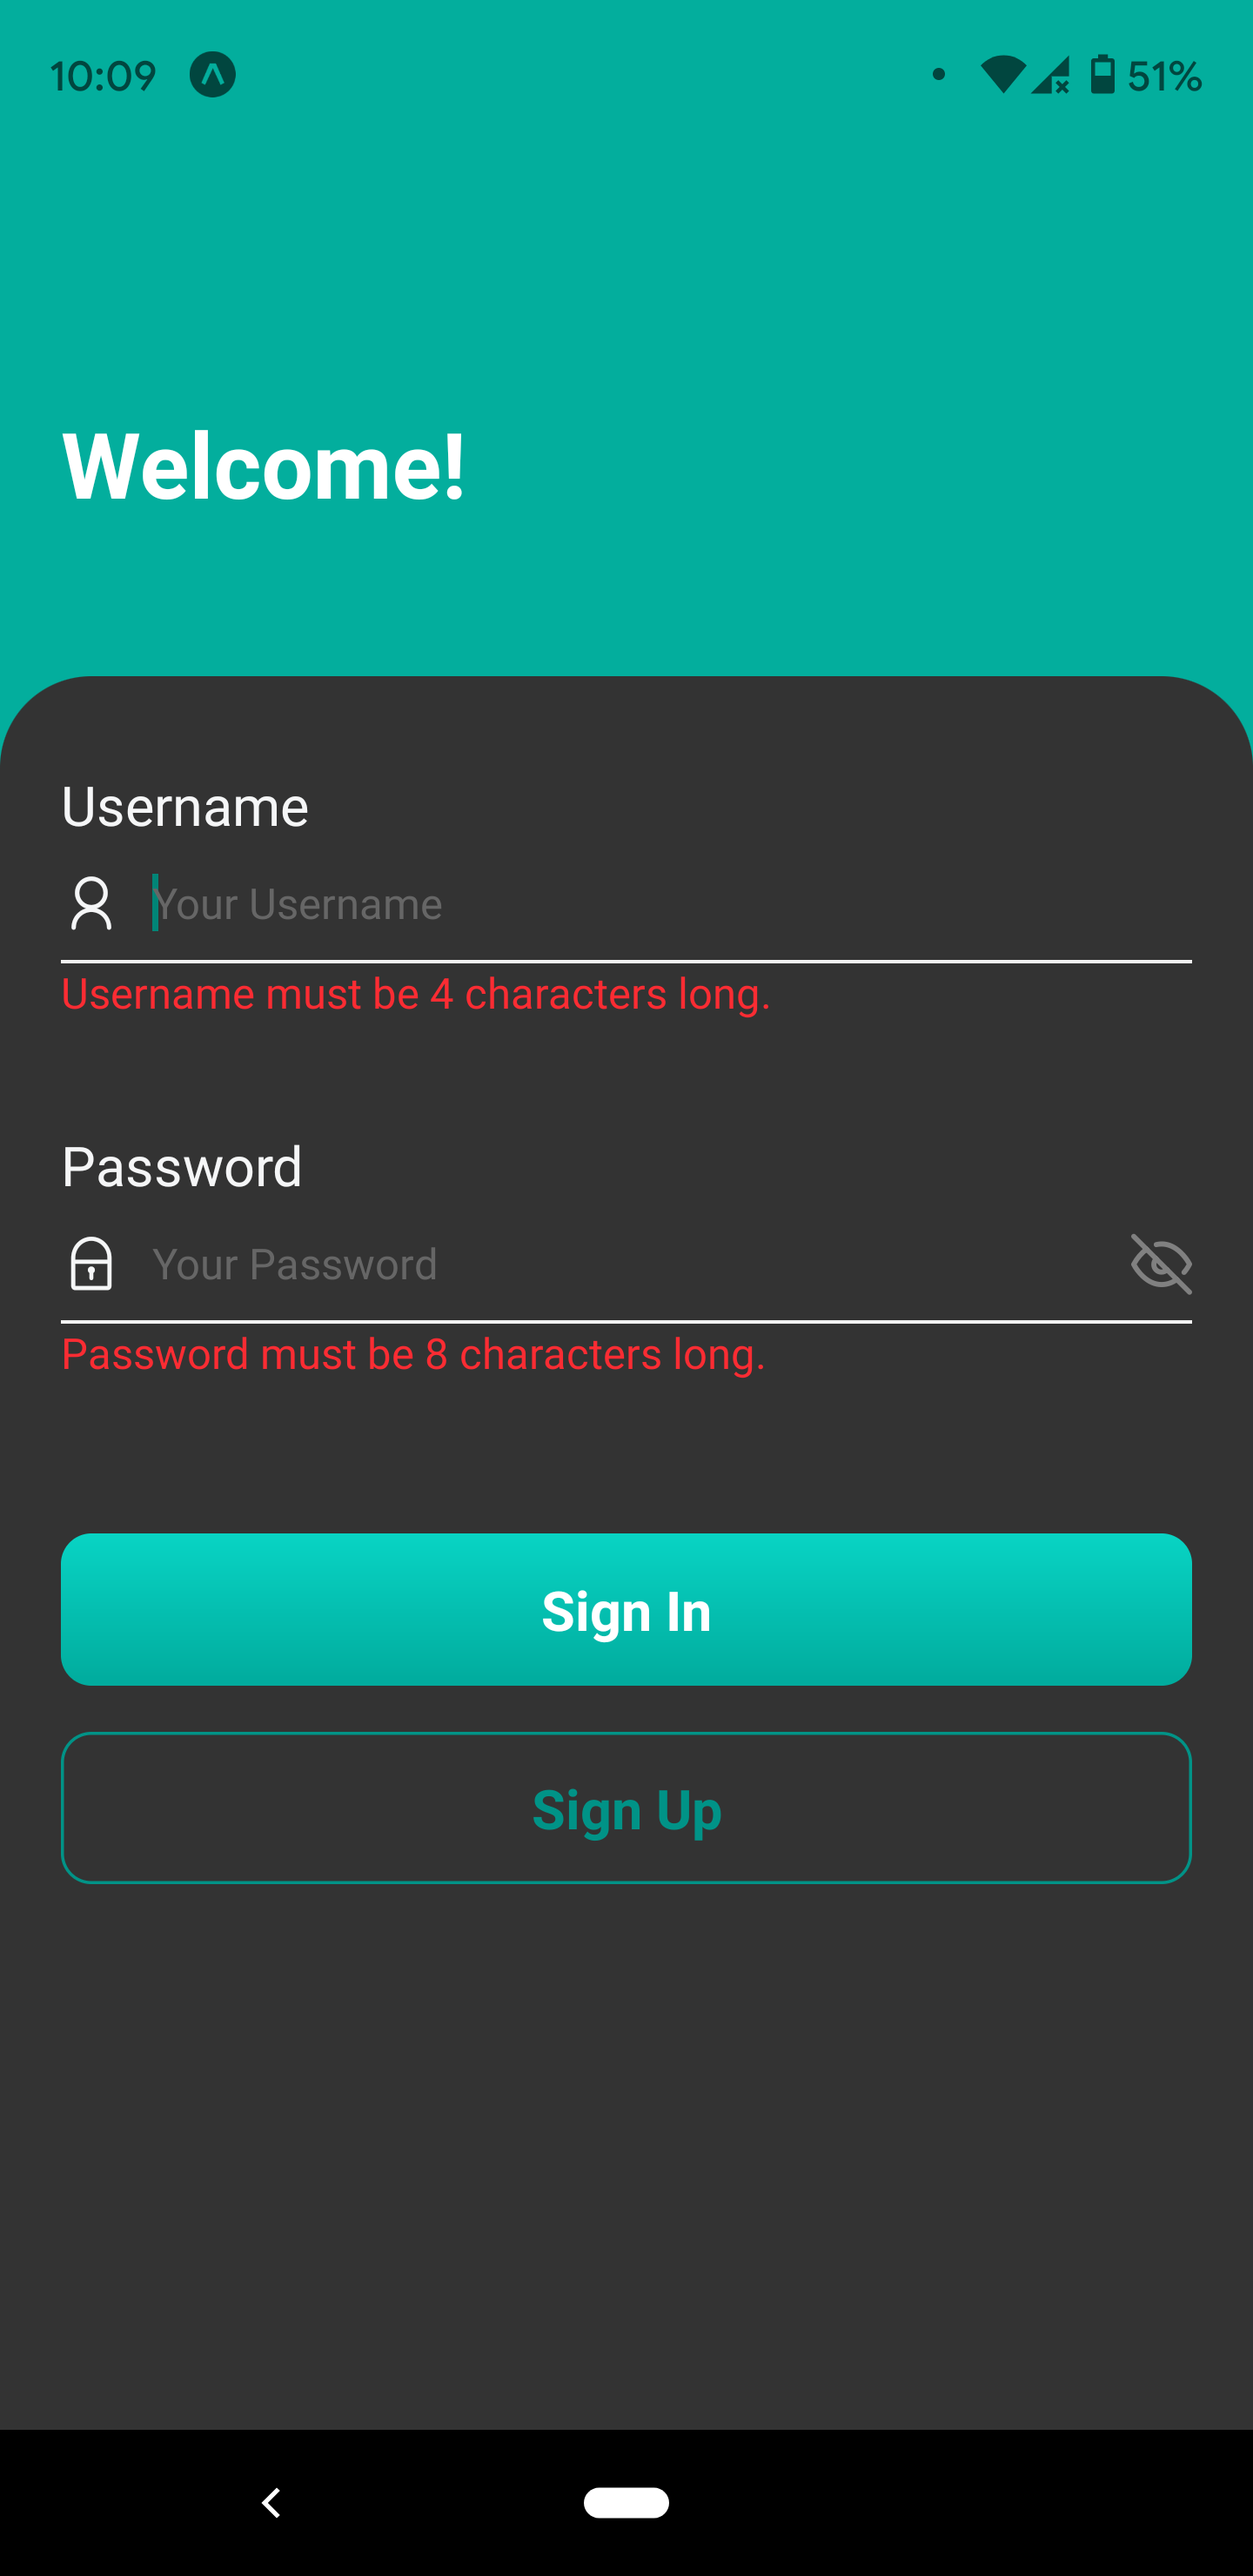
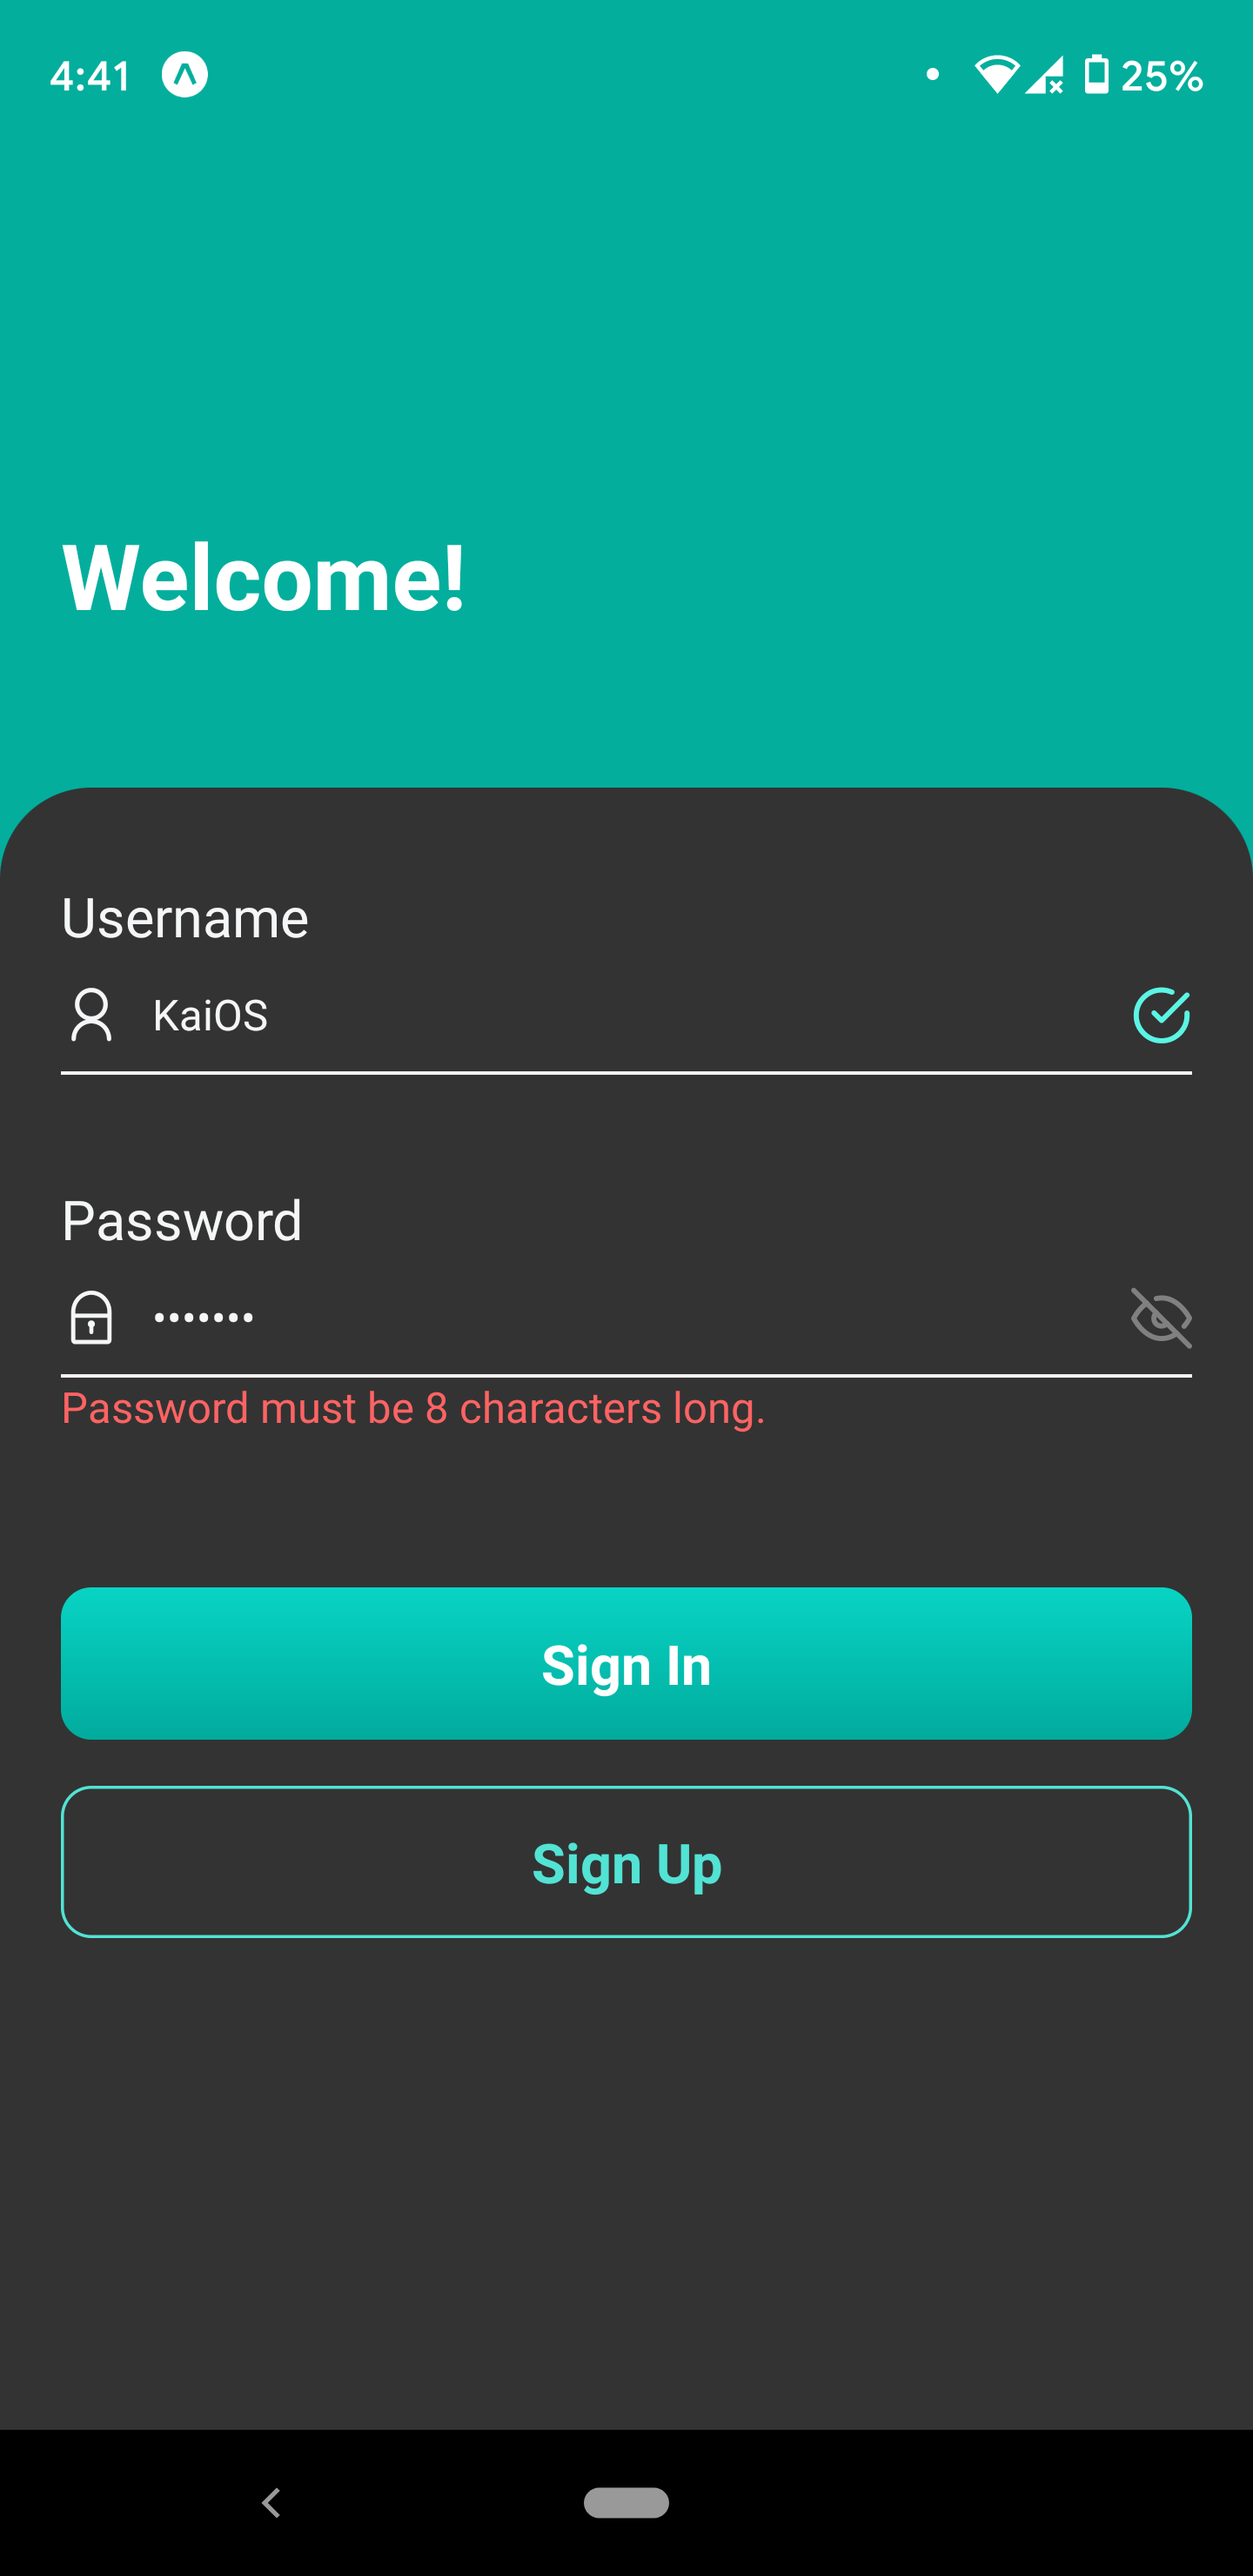
:sparkles: Support theming to Status Bar

diff --git a/app/navigation/SignInScreen.js b/app/navigation/SignInScreen.js
@@ -160,14 +160,14 @@ const SignInScreen = ({ navigation }) => {
 
           {data.check_textInputChange ? (
             <Animatable.View animation='bounceIn'>
-              <Feather name='check-circle' color='green' size={20} />
+              <Feather name='check-circle' color={colors.accent} size={20} />
             </Animatable.View>
           ) : null}
         </View>
 
         {data.isValidUser ? null : (
           <Animatable.View animation='fadeInLeft' duration={500}>
-            <Text style={styles.errorMsg}>
+            <Text style={[styles.errorMsg, { color: colors.danger }]}>
               Username must be 4 characters long.
             </Text>
           </Animatable.View>
@@ -212,7 +212,7 @@ const SignInScreen = ({ navigation }) => {
 
         {data.isValidPassword ? null : (
           <Animatable.View animation='fadeInLeft' duration={500}>
-            <Text style={styles.errorMsg}>
+            <Text style={[styles.errorMsg, { color: colors.danger }]}>
               Password must be 8 characters long.
             </Text>
           </Animatable.View>
@@ -247,7 +247,7 @@ const SignInScreen = ({ navigation }) => {
             style={[
               styles.signIn,
               {
-                borderColor: '#009387',
+                borderColor: colors.success,
                 borderWidth: 1,
                 marginTop: 15,
               },
@@ -257,7 +257,7 @@ const SignInScreen = ({ navigation }) => {
               style={[
                 styles.textSign,
                 {
-                  color: '#009387',
+                  color: colors.success,
                 },
               ]}
             >
@@ -314,7 +314,7 @@ const styles = StyleSheet.create({
     color: '#05375a',
   },
   errorMsg: {
-    color: '#fb2c33',
+    // color: '#fb2c33',
     fontSize: 14,
   },
   button: {

diff --git a/app/navigation/SignUpScreen.js b/app/navigation/SignUpScreen.js
@@ -114,7 +114,7 @@ const SignUpScreen = ({ navigation }) => {
 
           {data.check_textInputChange ? (
             <Animatable.View animation='bounceIn'>
-              <Feather name='check-circle' color='green' size={20} />
+              <Feather name='check-circle' color={colors.accent} size={20} />
             </Animatable.View>
           ) : null}
         </View>
@@ -213,7 +213,7 @@ const SignUpScreen = ({ navigation }) => {
             style={[
               styles.signIn,
               {
-                borderColor: '#009387',
+                borderColor: colors.success,
                 borderWidth: 1,
                 marginTop: 15,
               },
@@ -223,7 +223,7 @@ const SignUpScreen = ({ navigation }) => {
               style={[
                 styles.textSign,
                 {
-                  color: '#009387',
+                  color: colors.success,
                 },
               ]}
             >

diff --git a/app/components/CryptoDetail.js b/app/components/CryptoDetail.js
@@ -3,8 +3,10 @@ import PropTypes from 'prop-types';
 import { View, Text, StyleSheet } from 'react-native';
 import { ButtonGroup } from 'react-native-elements';
 import Area from './Area';
+import { useTheme } from '@react-navigation/native';
 
 const CryptoDetail = ({ route }) => {
+  const { colors } = useTheme();
   const [selected, setSelected] = useState(2);
   const buttons = ['1 Day', '1 Week', '1 Month'];
   const { itemId } = route.params;
@@ -23,7 +25,7 @@ const CryptoDetail = ({ route }) => {
   };
 
   return (
-    <View style={styles.container}>
+    <View style={[styles.container, { backgroundColor: colors.surface }]}>
       <Text style={styles.text}>
         {`Price Chart for ${period(selected)}`} (&euro;)
       </Text>
@@ -51,7 +53,6 @@ const styles = StyleSheet.create({
     flex: 1,
     alignItems: 'center',
     justifyContent: 'center',
-    backgroundColor: '#efefef',
   },
   text: {
     fontSize: 20,

diff --git a/app/components/Home.js b/app/components/Home.js
@@ -9,8 +9,10 @@ import {
 import CoinList from './CoinList';
 import ModalPicker from './ModalPicker';
 import FloatingButton from './FloatingButton';
+import { useTheme } from '@react-navigation/native';
 
 const Home = ({ navigation }) => {
+  const theme = useTheme();
   const [sortTarget, setSortTarget] = useState('market_cap_desc');
   const [modalVisible, setModalVisible] = useState(false);
   const changeModalVisibility = useCallback(
@@ -24,6 +26,10 @@ const Home = ({ navigation }) => {
 
   return (
     <SafeAreaView style={styles.container}>
+      <StatusBar
+        backgroundColor='#03AE9D'
+        barStyle={theme.dark ? 'light-content' : 'dark-content'}
+      />
       <Image
         style={styles.itemBGImage}
         source={require('../../assets/wallpaper.jpeg')}

diff --git a/app/navigation/SplashScreen.js b/app/navigation/SplashScreen.js
@@ -6,6 +6,7 @@ import {
   StyleSheet,
   Dimensions,
   Image,
+  StatusBar,
 } from 'react-native';
 import * as Animatable from 'react-native-animatable';
 import { LinearGradient } from 'expo-linear-gradient';
@@ -14,9 +15,14 @@ import { useTheme } from '@react-navigation/native';
 
 const SplashScreen = ({ navigation }) => {
   const { colors } = useTheme();
+  const theme = useTheme();
 
   return (
     <View style={styles.container}>
+      <StatusBar
+        backgroundColor='#03AE9D'
+        barStyle={theme.dark ? 'light-content' : 'dark-content'}
+      />
       <View style={styles.header}>
         <Animatable.Image
           animation='bounceIn'

diff --git a/App.js b/App.js
@@ -43,9 +43,10 @@ const App = () => {
       ...PaperDefaultTheme.colors,
       background: '#ffffff',
       text: '#333333',
-      primary: '#3498db',
+      danger: '#fb2c33',
       accent: '#03AE9D',
-      surface: '#ffffff',
+      surface: '#efefef',
+      success: '#009387',
     },
   };
 
@@ -57,9 +58,10 @@ const App = () => {
       ...PaperDarkTheme.colors,
       background: '#333333',
       text: '#f5f6f7',
-      primary: '#3498db',
-      accent: '#03AE9D',
-      surface: '#ffffff',
+      danger: '#ff6363',
+      accent: '#5bf5e5',
+      surface: '#333333',
+      success: '#52e3d4',
     },
   };
 

diff --git a/app/navigation/DrawerContent.js b/app/navigation/DrawerContent.js
@@ -143,8 +143,8 @@ const styles = StyleSheet.create({
   },
   bottomDrawerSection: {
     marginBottom: 15,
-    borderTopColor: '#f4f4f4',
-    borderTopWidth: 1,
+    borderTopColor: '#ededed',
+    borderTopWidth: 0.5,
   },
   preference: {
     flexDirection: 'row',

diff --git a/README.md b/README.md
@@ -32,10 +32,16 @@ A Crypto Tracker App inspired by SpiralDev's [**CryptoTracker**](https://github.
 
 ### User Registration
 
-| Splash Screen  | Sign In Screen | Dark Theme Sign Up |
+| Splash Screen  | Sign In | Sign Up |
 | :-: | :-: | :-: |
-| ![Splash Screen](./assets/screenshot/splash.png) | ![Sign In Screen](./assets/screenshot/login.png)  |  ![Sign Up](./assets/screenshot/d_signup.png) |
+| ![Splash Screen](./assets/screenshot/splash.png) | ![Sign In](./assets/screenshot/login.png)  |  ![Sign Up](./assets/screenshot/signup.png) |
 
+
+### Dark Theme
+
+| Splash Screen  | Sign In | Sign Up |
+| :-: | :-: | :-: |
+| ![Splash Screen](./assets/screenshot/d_splash.png) | ![Sign In](./assets/screenshot/d_login.png)  |  ![Sign Up](./assets/screenshot/d_signup.png) |
 
 ### Loading Environment Variables
 
